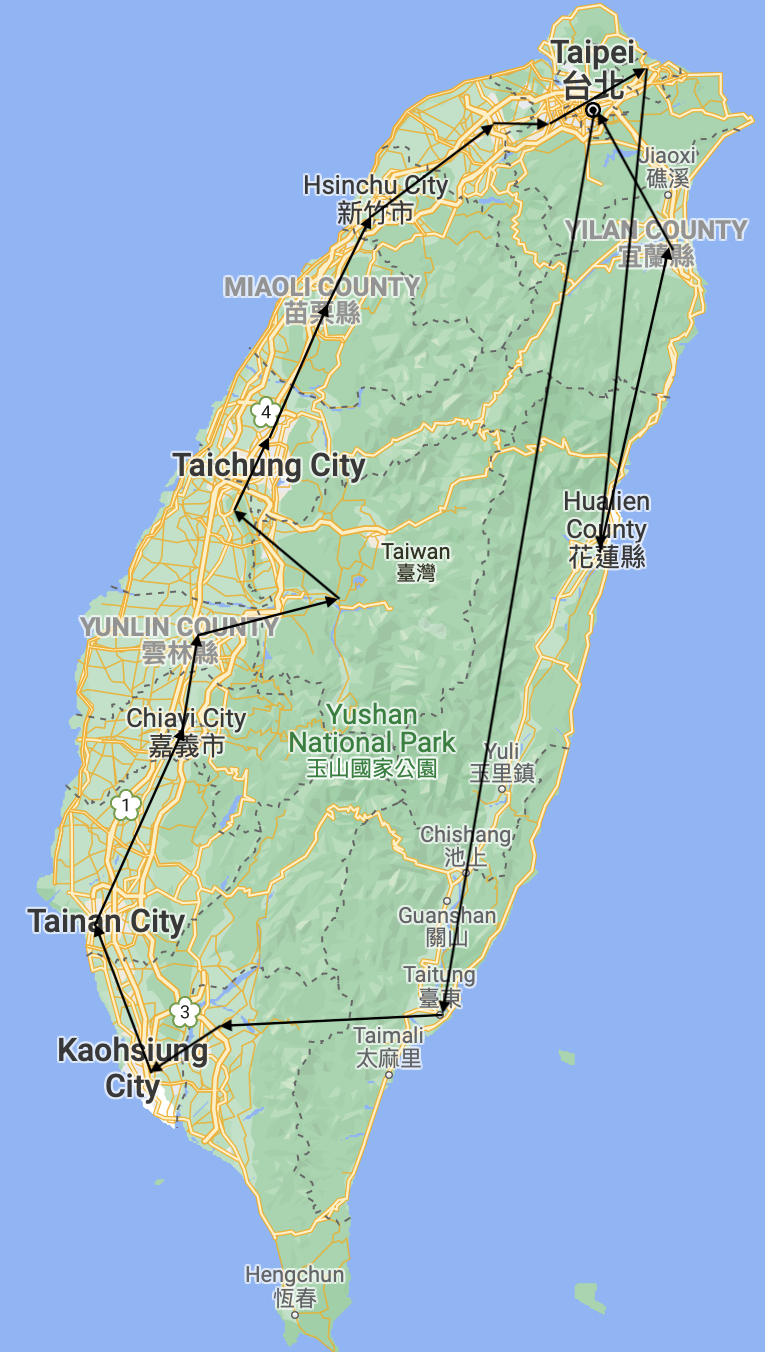
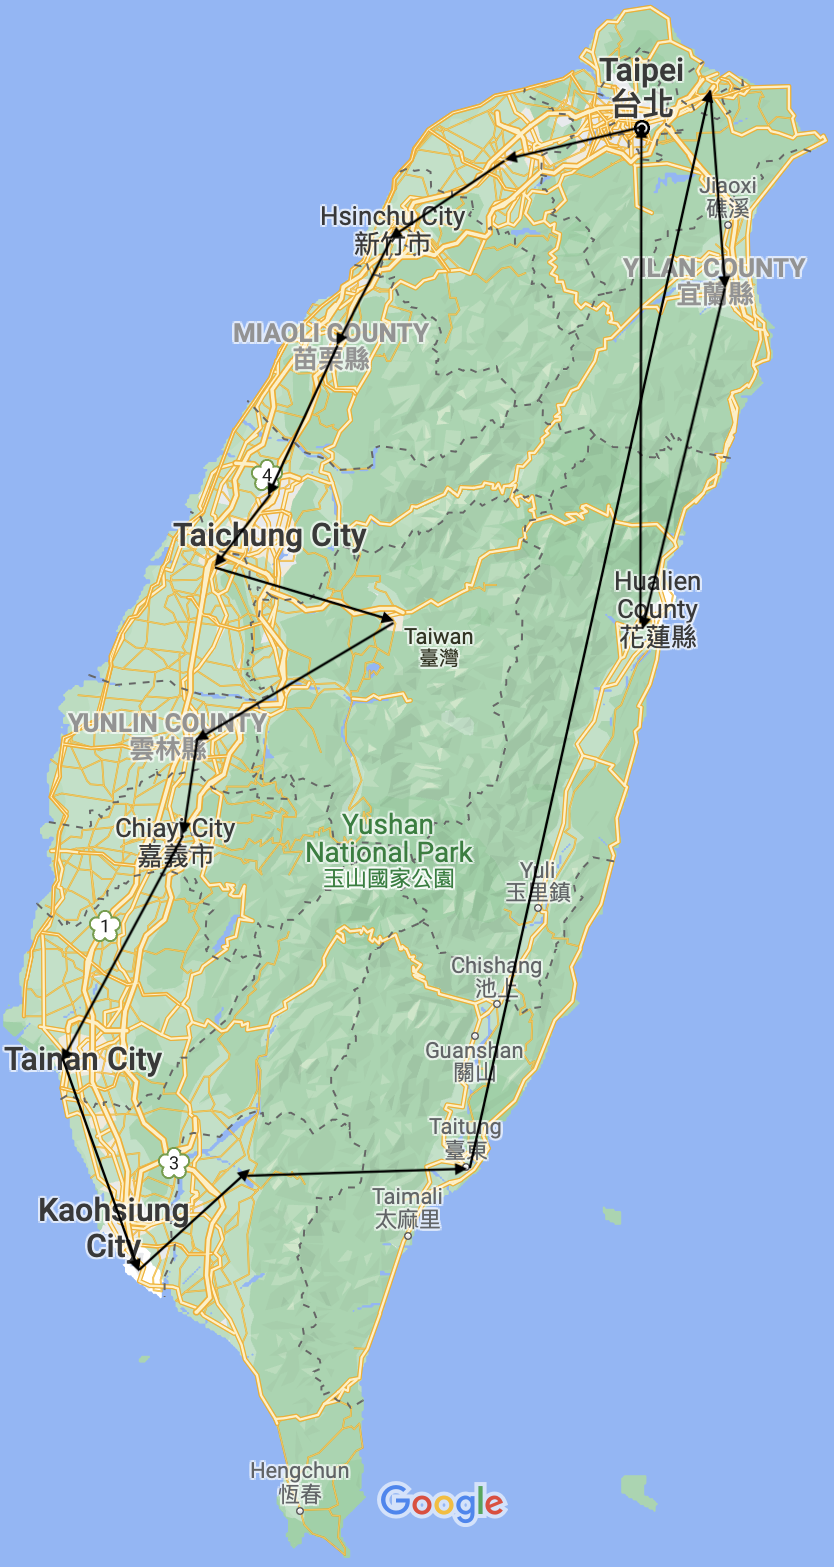
fix preorder traversal

diff --git a/src/graph.cpp b/src/graph.cpp
@@ -171,11 +171,11 @@ void graph::WriteNNOutputFile(std::ostream &fout)
 void graph::PrintSequence(std::ostream &fout)
 {
     fout << "Best Sequence" << std::endl;
-    fout << "0";
-    for (int i = 0; i < _SequenceList.size(); ++i)
+    for (int i = 0; i < _SequenceList.size() - 1; ++i)
     {
-        fout << " -> " << _SequenceList[i]->_id;
+        fout << _SequenceList[i]->_id << " -> ";
     }
+    fout << _SequenceList[_SequenceList.size() - 1]->_id;
     fout << std::endl;
     fout << "Total Distance : " << _TotalDistance << std::endl;
 }
@@ -183,10 +183,12 @@ void graph::PreorderTraversal()
 {
     node *Node = _CopyNodeList[0];
     Traversal(Node);
+    _SequenceList.push_back(Node);
 }
 
 void graph::Traversal(node *Node)
 {
+    _SequenceList.push_back(Node);
     for (int i = 0; i < Node->_AdjacentNodeList.size(); ++i)
     {
         if (Node->_AdjacentNodeList[i].second.second == true && Node->_id < Node->_AdjacentNodeList[i].first->_id)
@@ -194,7 +196,6 @@ void graph::Traversal(node *Node)
             Traversal(Node->_AdjacentNodeList[i].first);
         }
     }
-    _SequenceList.push_back(Node);
 }
 
 void graph::CalculateDistance()
@@ -211,6 +212,7 @@ void graph::CalculateDistance()
 void graph::NearestNeighbor()
 {
     node *Node = _NodeList[0];
+    _SequenceList.push_back(_NodeList[0]);
     Node->SetVisited();
 
     for (int i = 0; i < _VerticesNumber - 1; ++i)

diff --git a/README.md b/README.md
@@ -48,4 +48,4 @@ Taipei -> New Taipei -> Taoyuan -> Hsinchu -> Maoli -> Taichung -> Changhua -> N
 
 #### Sequence
 Total Distance : 957.91  km  
-Taipei -> Taitung -> Pingtung ->  Kaohsiung -> Tainan -> Chiayi -> Yunlin -> Nantou -> Changhua -> Taichung -> Maoli -> Hsinchu -> Taoyuan -> New Taipei -> Keelung -> Hualien -> Yilan -> Taipei
+Taipei -> New Taipei -> Taoyuan -> Hsinchu -> Maoli -> Taichung -> Changhua -> Nantou -> Yunlin -> Chiayi -> Tainan -> Kaohsiung -> Pingtung -> Taitung -> Keelung -> Hualien -> Yilan -> Taipei
